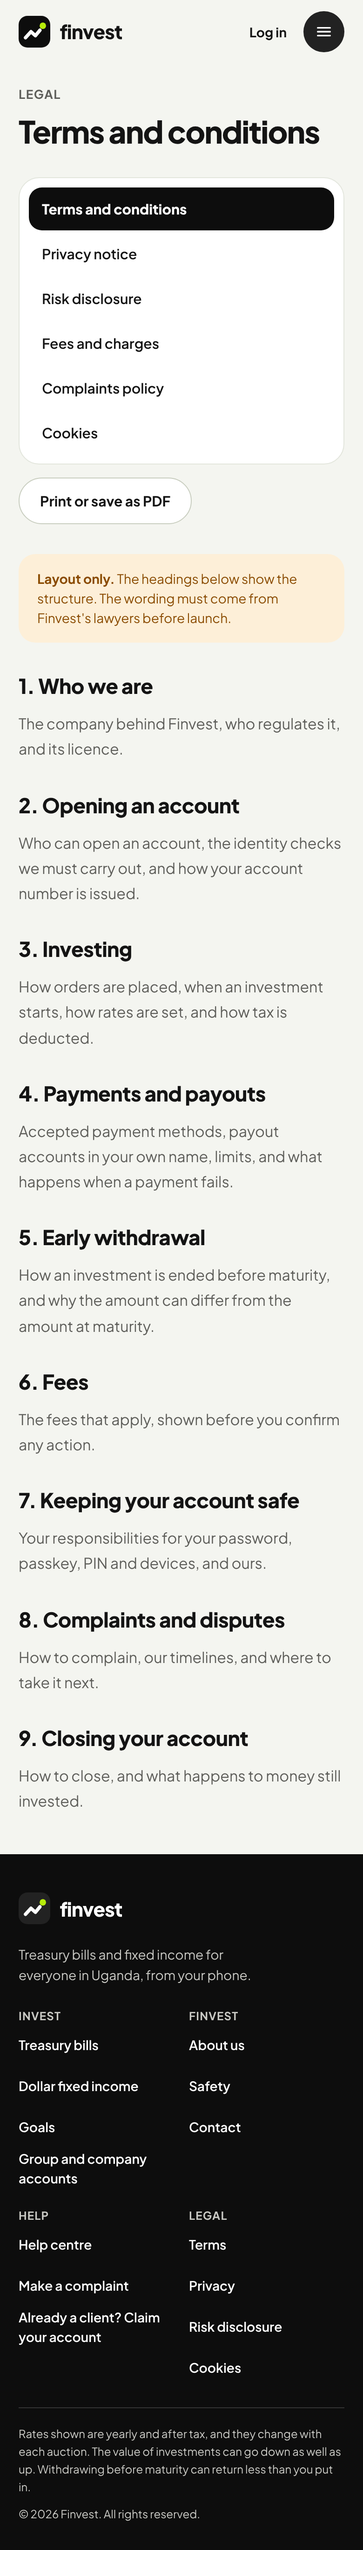
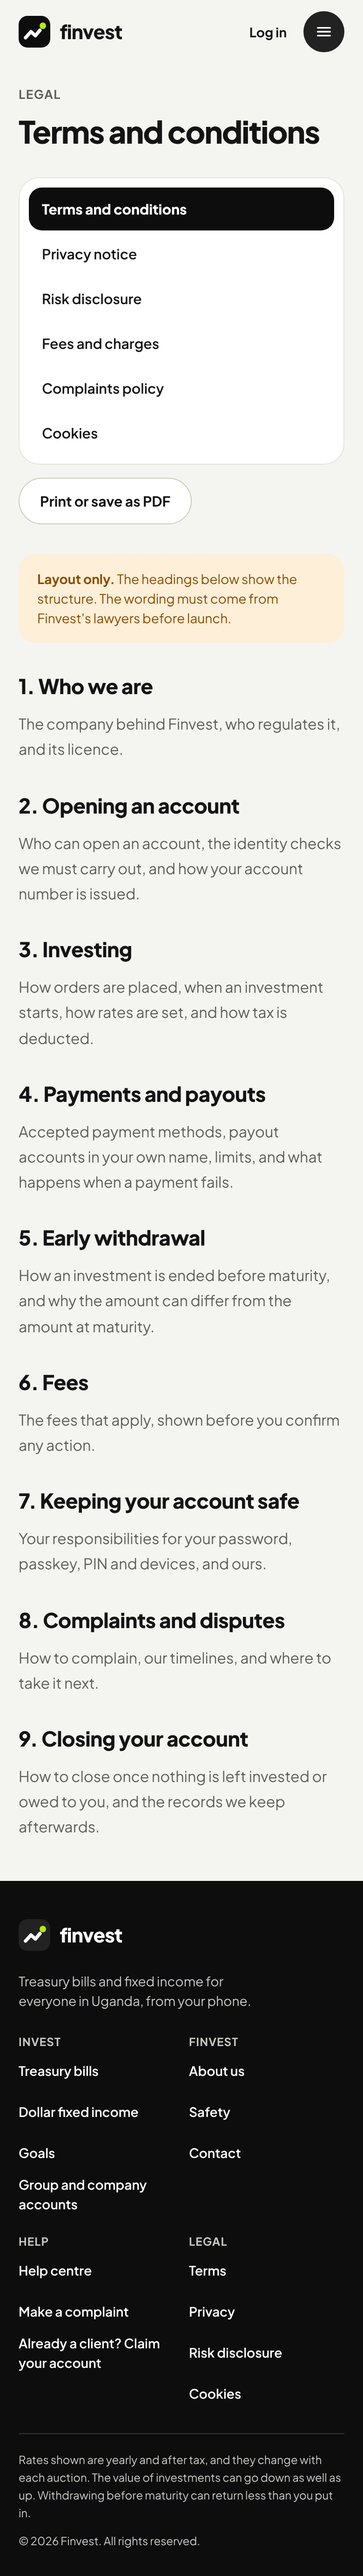
Say what the privacy notice and closing terms cover today
The legal summaries did not mention next of kin or the investing
answers Finvest now holds, the download of a copy of your data, or the
records kept after closing, and the closing terms implied an account
could close with money still invested, which the closure rules refuse.

diff --git a/apps/site/src/data/legal.ts b/apps/site/src/data/legal.ts
@@ -50,7 +50,7 @@ export const legalDocuments: LegalDocument[] = [
       },
       {
         heading: "Closing your account",
-        covers: "How to close, and what happens to money still invested.",
+        covers: "How to close once nothing is left invested or owed to you, and the records we keep afterwards.",
       },
     ],
   },
@@ -66,7 +66,7 @@ export const legalDocuments: LegalDocument[] = [
       {
         heading: "What we collect",
         covers:
-          "Identity documents and selfies, contact details, payout accounts, payments and investments, and device and sign-in records.",
+          "Identity documents and selfies, contact details, the next of kin you name, your answers to the investing questions, payout accounts, payments and investments, and device and sign-in records.",
       },
       {
         heading: "Why we use it",
@@ -76,15 +76,15 @@ export const legalDocuments: LegalDocument[] = [
       {
         heading: "Who we share it with",
         covers:
-          "Payment providers, the custodian, identity check providers, regulators and tax authorities, and nobody else.",
+          "Payment providers, the custodian, identity check providers, regulators and tax authorities, and the next of kin you named if we cannot reach you. Nobody else.",
       },
       {
         heading: "Where it is kept and for how long",
-        covers: "Where data is stored, how it is protected, and how long each kind is kept.",
+        covers: "Where data is stored, how it is protected, and how long each kind is kept, including after you close your account.",
       },
       {
         heading: "Your rights",
-        covers: "How to see, correct or object to the use of your data, and how to complain.",
+        covers: "How to download a copy of your data from Profile, correct it or object to its use, and how to complain.",
       },
     ],
   },
